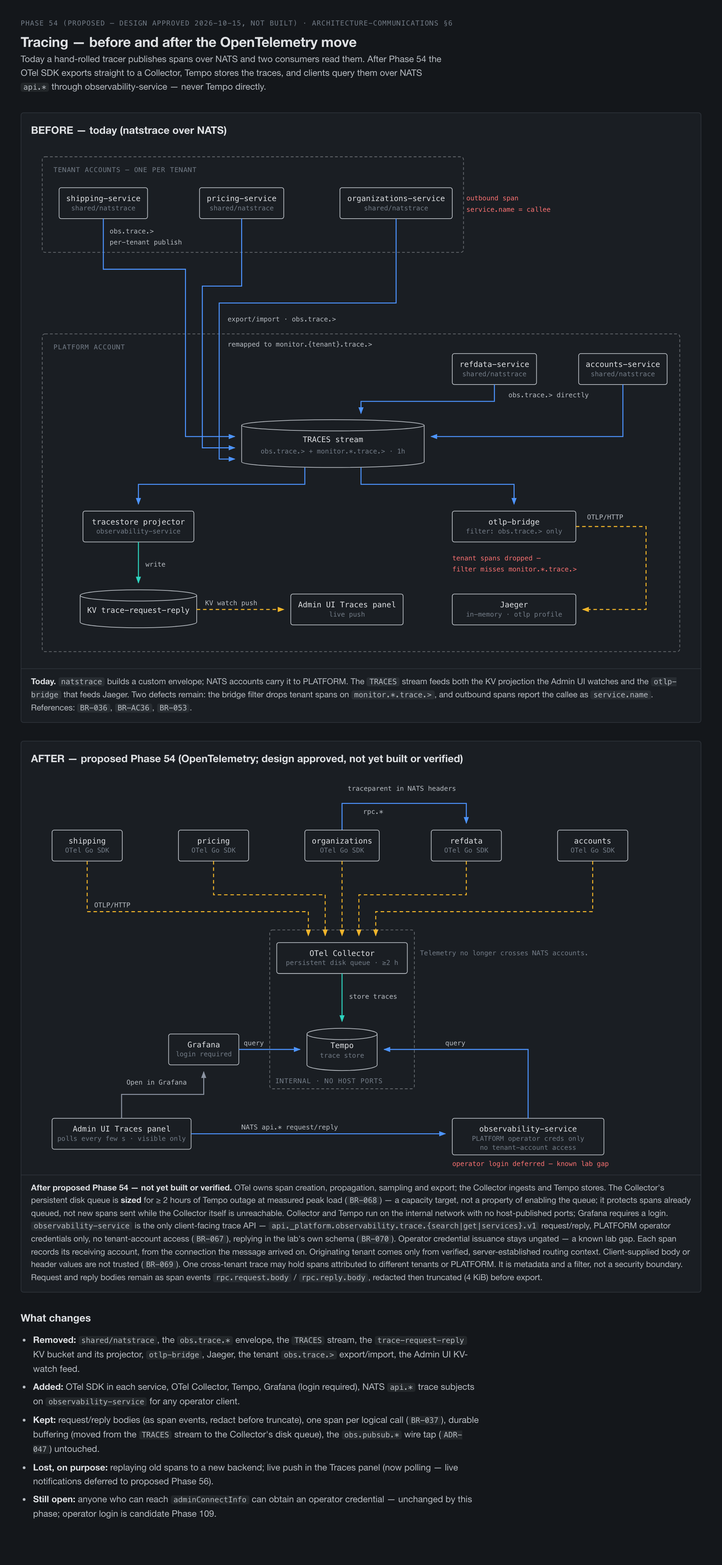
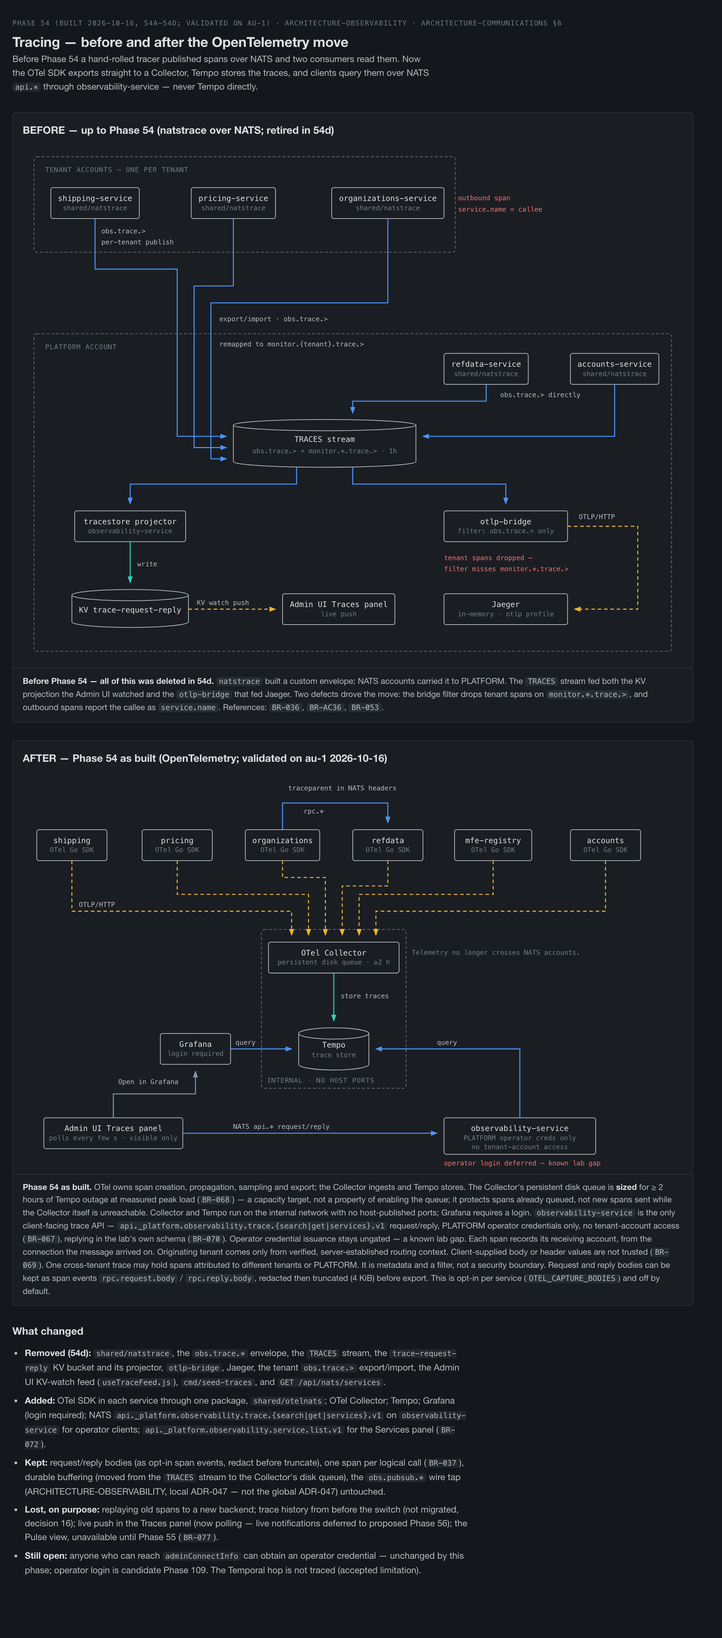
docs(phase54): reconcile docs, diagram and decision ledger
Bring the Phase 54 record up to date before the ADR pair is written.

- Plan: a decision ledger for all 17 decisions, with each one marked
  Built, Accepted limit, Deferred or Proposed. Also the remaining
  validation (za-1 not checked, full-queue delivery to Tempo not
  proved) and a separate Chronicle section of proposed transfer
  verdicts. Demo 03 keeps its own OTel module for now; the target is
  one shared module for Chronicle, picked by demo 03's three-way
  comparison.
- otel-migration-before-after: now the as-built figure (six services,
  past tense, opt-in bodies); PNG re-rendered, layout audit clean.
- ARCHITECTURE-COMMUNICATIONS: the Phase 28 deferred decision is marked
  resolved by Phase 54; both trace docs link the as-built figure.
- ADR-055: Phase 54 notes for the telemetry tier and the Jaeger ports.
- POC-Dictionaries: new Phase 54 findings note; Phase 28 note marked
  superseded.

diff --git a/demos/01-dictionary/diagrams/otel-migration-before-after.html b/demos/01-dictionary/diagrams/otel-migration-before-after.html
@@ -48,15 +48,15 @@ ul { margin: 0; padding-left: 18px; color: var(--muted); display: flex; flex-dir
 <body>
 <main class="wrap">
   <header class="head"><div class="head-txt">
-    <span class="eyebrow">Phase 54 (proposed — design approved 2026-10-15, not built) · ARCHITECTURE-COMMUNICATIONS §6</span>
+    <span class="eyebrow">Phase 54 (built 2026-10-16, 54a–54d; validated on au-1) · ARCHITECTURE-OBSERVABILITY · ARCHITECTURE-COMMUNICATIONS §6</span>
     <h1>Tracing — before and after the OpenTelemetry move</h1>
-    <p class="sub">Today a hand-rolled tracer publishes spans over NATS and two consumers read them. After Phase 54 the OTel SDK exports straight to a Collector, Tempo stores the traces, and clients query them over NATS <code>api.*</code> through observability-service — never Tempo directly.</p>
+    <p class="sub">Before Phase 54 a hand-rolled tracer published spans over NATS and two consumers read them. Now the OTel SDK exports straight to a Collector, Tempo stores the traces, and clients query them over NATS <code>api.*</code> through observability-service — never Tempo directly.</p>
   </div></header>
 
   <figure>
     <div class="fig-body">
-      <h2>BEFORE — today (natstrace over NATS)</h2>
-      <svg xmlns="http://www.w3.org/2000/svg" viewBox="0 0 940 740" role="img" aria-label="Today shipping, pricing and organizations use shared/natstrace in separate tenant accounts. Each publishes obs.trace.> and an export/import remaps those subjects to monitor.{tenant}.trace.> in PLATFORM. Refdata and accounts publish obs.trace.> directly in PLATFORM. The TRACES stream retains both subject families for one hour and feeds two consumers. The tracestore projector in observability-service writes the trace-request-reply KV bucket, whose watch pushes to the Admin UI. The otlp-bridge exports only obs.trace.> to in-memory Jaeger over OTLP/HTTP, dropping tenant spans because its filter misses monitor.*.trace.>. Another defect assigns the callee to outbound span service.name.">
+      <h2>BEFORE — up to Phase 54 (natstrace over NATS; retired in 54d)</h2>
+      <svg xmlns="http://www.w3.org/2000/svg" viewBox="0 0 940 740" role="img" aria-label="Before Phase 54, shipping, pricing and organizations use shared/natstrace in separate tenant accounts. Each publishes obs.trace.> and an export/import remaps those subjects to monitor.{tenant}.trace.> in PLATFORM. Refdata and accounts publish obs.trace.> directly in PLATFORM. The TRACES stream retains both subject families for one hour and feeds two consumers. The tracestore projector in observability-service writes the trace-request-reply KV bucket, whose watch pushes to the Admin UI. The otlp-bridge exports only obs.trace.> to in-memory Jaeger over OTLP/HTTP, dropping tenant spans because its filter misses monitor.*.trace.>. Another defect assigns the callee to outbound span service.name.">
         <defs>
           <marker id="a-sync" viewBox="0 0 8 8" refX="7" refY="4" markerWidth="7" markerHeight="7" orient="auto-start-reverse"><polygon points="0,1 8,4 0,7" fill="var(--sync)"/></marker>
           <marker id="a-store" viewBox="0 0 8 8" refX="7" refY="4" markerWidth="7" markerHeight="7" orient="auto-start-reverse"><polygon points="0,1 8,4 0,7" fill="var(--store)"/></marker>
@@ -132,44 +132,49 @@ ul { margin: 0; padding-left: 18px; color: var(--muted); display: flex; flex-dir
         <text class="lbl2" x="688" y="670" text-anchor="middle">in-memory · otlp profile</text>
       </svg>
     </div>
-    <figcaption><b>Today.</b> <code>natstrace</code> builds a custom envelope; NATS accounts carry it to PLATFORM. The <code>TRACES</code> stream feeds both the KV projection the Admin UI watches and the <code>otlp-bridge</code> that feeds Jaeger. Two defects remain: the bridge filter drops tenant spans on <code>monitor.*.trace.&gt;</code>, and outbound spans report the callee as <code>service.name</code>. References: <code>BR-036</code>, <code>BR-AC36</code>, <code>BR-053</code>.</figcaption>
+    <figcaption><b>Before Phase 54 — all of this was deleted in 54d.</b> <code>natstrace</code> built a custom envelope; NATS accounts carried it to PLATFORM. The <code>TRACES</code> stream fed both the KV projection the Admin UI watched and the <code>otlp-bridge</code> that fed Jaeger. Two defects drove the move: the bridge filter drops tenant spans on <code>monitor.*.trace.&gt;</code>, and outbound spans report the callee as <code>service.name</code>. References: <code>BR-036</code>, <code>BR-AC36</code>, <code>BR-053</code>.</figcaption>
   </figure>
 
   <figure>
     <div class="fig-body">
-      <h2>AFTER — proposed Phase 54 (OpenTelemetry; design approved, not yet built or verified)</h2>
-      <svg xmlns="http://www.w3.org/2000/svg" viewBox="0 0 940 566" role="img" aria-label="After proposed Phase 54, not yet built: shipping, pricing, organizations, refdata and accounts each use the OTel Go SDK. An organizations-to-refdata RPC propagates traceparent in NATS headers. All five services export asynchronously over OTLP/HTTP directly to the OTel Collector, which holds a persistent disk queue sized for at least two hours of Tempo outage and writes Tempo. The Collector and Tempo run on the internal network with no host-published ports. Telemetry no longer crosses NATS accounts. Grafana, which requires a login, queries Tempo. The Admin UI polls observability-service over NATS api request/reply every few seconds while visible; observability-service is the only client-facing trace API, for PLATFORM operator credentials only with no tenant-account access, and it queries Tempo. Operator login is deferred, a known lab gap. The Admin UI also links to Grafana.">
+      <h2>AFTER — Phase 54 as built (OpenTelemetry; validated on au-1 2026-10-16)</h2>
+      <svg xmlns="http://www.w3.org/2000/svg" viewBox="0 0 940 566" role="img" aria-label="Phase 54 as built: shipping, pricing, organizations, refdata, mfe-registry and accounts each use the OTel Go SDK through shared/otelnats. An organizations-to-refdata RPC propagates traceparent in NATS headers. All six services export asynchronously over OTLP/HTTP directly to the OTel Collector, which holds a persistent disk queue sized for at least two hours of Tempo outage and writes Tempo. The Collector and Tempo run on the internal network with no host-published ports. Telemetry no longer crosses NATS accounts. Grafana, which requires a login, queries Tempo. The Admin UI polls observability-service over NATS api request/reply every few seconds while visible; observability-service is the only client-facing trace API, for PLATFORM operator credentials only with no tenant-account access, and it queries Tempo. Operator login is deferred, a known lab gap. The Admin UI also links to Grafana.">
         <defs>
           <marker id="b-sync" viewBox="0 0 8 8" refX="7" refY="4" markerWidth="7" markerHeight="7" orient="auto-start-reverse"><polygon points="0,1 8,4 0,7" fill="var(--sync)"/></marker>
           <marker id="b-store" viewBox="0 0 8 8" refX="7" refY="4" markerWidth="7" markerHeight="7" orient="auto-start-reverse"><polygon points="0,1 8,4 0,7" fill="var(--store)"/></marker>
           <marker id="b-evtl" viewBox="0 0 8 8" refX="7" refY="4" markerWidth="7" markerHeight="7" orient="auto-start-reverse"><polygon points="0,1 8,4 0,7" fill="var(--evtl)"/></marker>
           <marker id="b-hop" viewBox="0 0 8 8" refX="7" refY="4" markerWidth="7" markerHeight="7" orient="auto-start-reverse"><polygon points="0,1 8,4 0,7" fill="var(--hop)"/></marker>
         </defs>
-        <!-- Five exports have distinct lanes and ordered Collector ports, 24px apart. -->
-        <path class="flow" d="M443 80 V42 H620 V70" marker-end="url(#b-sync)"/>
-        <text class="edge" x="451" y="24">traceparent in NATS headers</text>
-        <text class="edge" x="473" y="57">rpc.*</text>
-        <rect class="n" x="30" y="80" width="100" height="44" rx="3"/>
-        <text class="lbl" x="80" y="99" text-anchor="middle">shipping</text>
-        <text class="lbl2" x="80" y="112" text-anchor="middle">OTel Go SDK</text>
-        <rect class="n" x="210" y="80" width="100" height="44" rx="3"/>
-        <text class="lbl" x="260" y="99" text-anchor="middle">pricing</text>
-        <text class="lbl2" x="260" y="112" text-anchor="middle">OTel Go SDK</text>
-        <rect class="n" x="390" y="80" width="106" height="44" rx="3"/>
-        <text class="lbl" x="443" y="99" text-anchor="middle">organizations</text>
-        <text class="lbl2" x="443" y="112" text-anchor="middle">OTel Go SDK</text>
-        <rect class="n" x="570" y="80" width="100" height="44" rx="3"/>
-        <text class="lbl" x="620" y="99" text-anchor="middle">refdata</text>
-        <text class="lbl2" x="620" y="112" text-anchor="middle">OTel Go SDK</text>
-        <rect class="n" x="750" y="80" width="100" height="44" rx="3"/>
-        <text class="lbl" x="800" y="99" text-anchor="middle">accounts</text>
-        <text class="lbl2" x="800" y="112" text-anchor="middle">OTel Go SDK</text>
-        <path class="rep" d="M80 124 V196 H395 V230" marker-end="url(#b-evtl)"/>
-        <path class="rep" d="M260 124 V172 H419 V230" marker-end="url(#b-evtl)"/>
-        <path class="rep" d="M443 124 V230" marker-end="url(#b-evtl)"/>
-        <path class="rep" d="M620 124 V172 H467 V230" marker-end="url(#b-evtl)"/>
-        <path class="rep" d="M800 124 V196 H491 V230" marker-end="url(#b-evtl)"/>
-        <text class="edge" x="90" y="190">OTLP/HTTP</text>
+        <!-- Six exports have distinct lanes (y=148/160/172/196) and ordered
+             Collector ports 383..503, 24px apart. No two lanes overlap. -->
+        <path class="flow" d="M370 80 V42 H520 V70" marker-end="url(#b-sync)"/>
+        <text class="edge" x="378" y="24">traceparent in NATS headers</text>
+        <text class="edge" x="400" y="57">rpc.*</text>
+        <rect class="n" x="20" y="80" width="100" height="44" rx="3"/>
+        <text class="lbl" x="70" y="99" text-anchor="middle">shipping</text>
+        <text class="lbl2" x="70" y="112" text-anchor="middle">OTel Go SDK</text>
+        <rect class="n" x="170" y="80" width="100" height="44" rx="3"/>
+        <text class="lbl" x="220" y="99" text-anchor="middle">pricing</text>
+        <text class="lbl2" x="220" y="112" text-anchor="middle">OTel Go SDK</text>
+        <rect class="n" x="317" y="80" width="106" height="44" rx="3"/>
+        <text class="lbl" x="370" y="99" text-anchor="middle">organizations</text>
+        <text class="lbl2" x="370" y="112" text-anchor="middle">OTel Go SDK</text>
+        <rect class="n" x="470" y="80" width="100" height="44" rx="3"/>
+        <text class="lbl" x="520" y="99" text-anchor="middle">refdata</text>
+        <text class="lbl2" x="520" y="112" text-anchor="middle">OTel Go SDK</text>
+        <rect class="n" x="615" y="80" width="110" height="44" rx="3"/>
+        <text class="lbl" x="670" y="99" text-anchor="middle">mfe-registry</text>
+        <text class="lbl2" x="670" y="112" text-anchor="middle">OTel Go SDK</text>
+        <rect class="n" x="780" y="80" width="100" height="44" rx="3"/>
+        <text class="lbl" x="830" y="99" text-anchor="middle">accounts</text>
+        <text class="lbl2" x="830" y="112" text-anchor="middle">OTel Go SDK</text>
+        <path class="rep" d="M70 124 V196 H383 V230" marker-end="url(#b-evtl)"/>
+        <path class="rep" d="M220 124 V172 H407 V230" marker-end="url(#b-evtl)"/>
+        <path class="rep" d="M370 124 V148 H431 V230" marker-end="url(#b-evtl)"/>
+        <path class="rep" d="M520 124 V160 H455 V230" marker-end="url(#b-evtl)"/>
+        <path class="rep" d="M670 124 V172 H479 V230" marker-end="url(#b-evtl)"/>
+        <path class="rep" d="M830 124 V196 H503 V230" marker-end="url(#b-evtl)"/>
+        <text class="edge" x="80" y="190">OTLP/HTTP</text>
         <rect class="n" x="350" y="240" width="186" height="44" rx="3"/>
         <text class="lbl" x="443" y="259" text-anchor="middle">OTel Collector</text>
         <text class="lbl2" x="443" y="272" text-anchor="middle">persistent disk queue · ≥2 h</text>
@@ -203,17 +208,17 @@ ul { margin: 0; padding-left: 18px; color: var(--muted); display: flex; flex-dir
         <text class="edge" x="136" y="442">Open in Grafana</text>
       </svg>
     </div>
-    <figcaption><b>After proposed Phase 54 — not yet built or verified.</b> OTel owns span creation, propagation, sampling and export; the Collector ingests and Tempo stores. The Collector's persistent disk queue is <b>sized</b> for ≥ 2 hours of Tempo outage at measured peak load (<code>BR-068</code>) — a capacity target, not a property of enabling the queue; it protects spans already queued, not new spans sent while the Collector itself is unreachable. Collector and Tempo run on the internal network with no host-published ports; Grafana requires a login. <code>observability-service</code> is the only client-facing trace API — <code>api._platform.observability.trace.{search|get|services}.v1</code> request/reply, PLATFORM operator credentials only, no tenant-account access (<code>BR-067</code>), replying in the lab's own schema (<code>BR-070</code>). Operator credential issuance stays ungated — a known lab gap. Each span records its receiving account, from the connection the message arrived on. Originating tenant comes only from verified, server-established routing context. Client-supplied body or header values are not trusted (<code>BR-069</code>). One cross-tenant trace may hold spans attributed to different tenants or PLATFORM. It is metadata and a filter, not a security boundary. Request and reply bodies remain as span events <code>rpc.request.body</code> / <code>rpc.reply.body</code>, redacted then truncated (4 KiB) before export.</figcaption>
+    <figcaption><b>Phase 54 as built.</b> OTel owns span creation, propagation, sampling and export; the Collector ingests and Tempo stores. The Collector's persistent disk queue is <b>sized</b> for ≥ 2 hours of Tempo outage at measured peak load (<code>BR-068</code>) — a capacity target, not a property of enabling the queue; it protects spans already queued, not new spans sent while the Collector itself is unreachable. Collector and Tempo run on the internal network with no host-published ports; Grafana requires a login. <code>observability-service</code> is the only client-facing trace API — <code>api._platform.observability.trace.{search|get|services}.v1</code> request/reply, PLATFORM operator credentials only, no tenant-account access (<code>BR-067</code>), replying in the lab's own schema (<code>BR-070</code>). Operator credential issuance stays ungated — a known lab gap. Each span records its receiving account, from the connection the message arrived on. Originating tenant comes only from verified, server-established routing context. Client-supplied body or header values are not trusted (<code>BR-069</code>). One cross-tenant trace may hold spans attributed to different tenants or PLATFORM. It is metadata and a filter, not a security boundary. Request and reply bodies can be kept as span events <code>rpc.request.body</code> / <code>rpc.reply.body</code>, redacted then truncated (4 KiB) before export. This is opt-in per service (<code>OTEL_CAPTURE_BODIES</code>) and off by default.</figcaption>
   </figure>
 
   <section class="sec">
-    <h2>What changes</h2>
+    <h2>What changed</h2>
     <ul>
-      <li><b>Removed:</b> <code>shared/natstrace</code>, the <code>obs.trace.*</code> envelope, the <code>TRACES</code> stream, the <code>trace-request-reply</code> KV bucket and its projector, <code>otlp-bridge</code>, Jaeger, the tenant <code>obs.trace.&gt;</code> export/import, the Admin UI KV-watch feed.</li>
-      <li><b>Added:</b> OTel SDK in each service, OTel Collector, Tempo, Grafana (login required), NATS <code>api.*</code> trace subjects on <code>observability-service</code> for any operator client.</li>
-      <li><b>Kept:</b> request/reply bodies (as span events, redact before truncate), one span per logical call (<code>BR-037</code>), durable buffering (moved from the <code>TRACES</code> stream to the Collector's disk queue), the <code>obs.pubsub.*</code> wire tap (<code>ADR-047</code>) untouched.</li>
-      <li><b>Lost, on purpose:</b> replaying old spans to a new backend; live push in the Traces panel (now polling — live notifications deferred to proposed Phase 56).</li>
-      <li><b>Still open:</b> anyone who can reach <code>adminConnectInfo</code> can obtain an operator credential — unchanged by this phase; operator login is candidate Phase 109.</li>
+      <li><b>Removed (54d):</b> <code>shared/natstrace</code>, the <code>obs.trace.*</code> envelope, the <code>TRACES</code> stream, the <code>trace-request-reply</code> KV bucket and its projector, <code>otlp-bridge</code>, Jaeger, the tenant <code>obs.trace.&gt;</code> export/import, the Admin UI KV-watch feed (<code>useTraceFeed.js</code>), <code>cmd/seed-traces</code>, and <code>GET /api/nats/services</code>.</li>
+      <li><b>Added:</b> OTel SDK in each service through one package, <code>shared/otelnats</code>; OTel Collector; Tempo; Grafana (login required); NATS <code>api._platform.observability.trace.{search|get|services}.v1</code> on <code>observability-service</code> for operator clients; <code>api._platform.observability.service.list.v1</code> for the Services panel (<code>BR-072</code>).</li>
+      <li><b>Kept:</b> request/reply bodies (as opt-in span events, redact before truncate), one span per logical call (<code>BR-037</code>), durable buffering (moved from the <code>TRACES</code> stream to the Collector's disk queue), the <code>obs.pubsub.*</code> wire tap (ARCHITECTURE-OBSERVABILITY, local ADR-047 — not the global ADR-047) untouched.</li>
+      <li><b>Lost, on purpose:</b> replaying old spans to a new backend; trace history from before the switch (not migrated, decision 16); live push in the Traces panel (now polling — live notifications deferred to proposed Phase 56); the Pulse view, unavailable until Phase 55 (<code>BR-077</code>).</li>
+      <li><b>Still open:</b> anyone who can reach <code>adminConnectInfo</code> can obtain an operator credential — unchanged by this phase; operator login is candidate Phase 109. The Temporal hop is not traced (accepted limitation).</li>
     </ul>
   </section>
 </main>

diff --git a/.claude/plans/Main-POC-Plan.md b/.claude/plans/Main-POC-Plan.md
@@ -1208,7 +1208,7 @@ rationale, the design decisions, or the verification log).
 ---
 
 
-### Phase 54 — DESIGN APPROVED 2026-10-15, REVISED same day after a Claude/Codex review; decisions 15 (c) and 16 (a) chosen by the user 2026-10-15 (business rules BR-064–BR-071 written into BUSINESS_RULES-SHIPPING.md 2026-10-15, specs red; 54a–54c BUILT, 54c validated on au-1 2026-10-16, decision 16 switch MADE 2026-10-16 on au-1; 54d next) — Replace `natstrace` with OpenTelemetry: SDK → Collector → Tempo, Clients Query Through `observability-service`
+### Phase 54 — DESIGN APPROVED 2026-10-15, REVISED same day after a Claude/Codex review; decisions 15 (c) and 16 (a) chosen by the user 2026-10-15 (business rules BR-064–BR-071 written into BUSINESS_RULES-SHIPPING.md 2026-10-15, specs red; 54a–54c BUILT, 54c validated on au-1 2026-10-16, decision 16 switch MADE 2026-10-16 on au-1; 54d code BUILT 2026-10-16 (04d73e27), au-1 trace stores removed 2026-10-17, za-1 not checked; docs close-out OPEN: ADR pair, as-built diagram, LB-V3-L3-10) — Replace `natstrace` with OpenTelemetry: SDK → Collector → Tempo, Clients Query Through `observability-service`
 
 > Reverses the deferred decision recorded in ARCHITECTURE-COMMUNICATIONS.md
 > § 6 ("Revisit the real SDK if this POC graduates"). Agreed direction
@@ -1476,6 +1476,15 @@ Neither is fixed in place: this phase removes the code that has them.
     - **No promise that service code stays unchanged.** A helper cannot
       repair a dropped context or choose a span's boundaries. Decision 6's
       adapter context audit still runs, service by service.
+    - **Demo 03 builds its own module for now** (user, 2026-10-17).
+      `demos/03-multi-cluster-and-accounts/OTEL-SIGNALS-PLAN.md` proposes a
+      separate module, because demo 03 is sealed and `otelnats` carries
+      demo 01 rules (tenant `Trust`, the `api.*` root policy,
+      `obs.pubsub.*`). That is accepted as a temporary split, not a second
+      direction. **The target is one shared module for Chronicle.** Demo
+      03's three-way comparison (`shared/otelnats`, demo 03's module,
+      Chronicle's `services/lib/logger`) picks which code that module
+      starts from. Until then, neither lab module is the Chronicle module.
 15. **Pulse waits for Phase 55's metrics** (chosen by the user
     2026-10-15, option (c)). Today `PulsePanel.vue` counts the whole live
     trace set from `useTraceFeed.js`. Decision 9's search has a result
@@ -1563,6 +1572,70 @@ Neither is fixed in place: this phase removes the code that has them.
       topology, credentials and discovery timing supplied by deployment
       configuration. AWS deployment and the Chronicle merge are later
       work, not Phase 54 completion claims.
+
+#### Decision ledger (reconciled 2026-10-17)
+
+One line per decision, so the ADR pair can quote it. Four kinds of entry,
+kept apart: **Built** (in the code, checked on au-1), **Accepted limit**
+(a known gap the user chose to keep), **Deferred** (decided to decide
+later, with a place named), **Proposed** (said in chat, never confirmed by
+the user). Remaining validation is listed after the table.
+
+| # | Decision | Status | Evidence |
+|---|---|---|---|
+| 1 | OTel Go SDK in every traced service | Built | 54a–54b; six services export (shipping, refdata, mfe-registry, pricing, organizations, accounts) |
+| 2 | SDK → Collector → Tempo; only Grafana on the host | Built | `cell/compose.telemetry.yaml`; ADR-055 Phase 54 note |
+| 2 | Tempo monolithic on local disk | Built, lab only | The V3 trace store is **Deferred** to a V3 decision (alternative: Jaeger v2 + OpenSearch) |
+| 3 | Telemetry leaves the NATS account model | Built | 54d removed the tenant `obs.trace.>` export/import |
+| 4 | Operators read all tenants; tenants read nothing | Built | BR-067, BR-069 |
+| 4 | Ungated `adminConnectInfo` | Accepted limit | Operator login is candidate Phase 109 |
+| 5 | Span kinds; new root at the `api.*` edge | Built | BR-071, `otelnats.go` sampler |
+| 6 | Context through the adapters, domain free of `otel` | Built | 54b context audits, per service |
+| 6 | Temporal hop not traced | Accepted limit | BR-064 |
+| 7 | Bodies as span events, opt-in | Built | `OTEL_CAPTURE_BODIES`, off by default |
+| 8 | Traces panel polls | Built | 54c; push hint is **Deferred** to Phase 56 |
+| 9 | Trace queries are NATS `api.*` only, lab schema | Built | BR-076, `traceGateway.js` |
+| 10 | Export never blocks a business call | Built | Measured in 54a (stopped and hung Collector) |
+| 11 | Disk queue in the Collector; replay given up | Built | Durability 54a, capacity and overflow 54b-7b (BR-068) |
+| 12 | 100% sampling in the lab | Built | BR-071 |
+| 13 | Retire `natstrace` and the NATS trace path | Built | 54d (`04d73e27`); au-1 stores removed by hand 2026-10-17 |
+| 14 | One thin shared package, `shared/otelnats` | Built | Demo 03 keeps its own module for now; one Chronicle module is the target (decision 14) |
+| 15 | Pulse unavailable until Phase 55 | Built | BR-077 |
+| 16 | One cutover; history not migrated | Built | Switch made on au-1 2026-10-16 |
+| 17 | Micro discovery over `service.list.v1` | Built | BR-072; `GET /api/nats/services` removed in 54d |
+| — | Lab Tempo setup: no second dev config file, no grouping spans by trace in the Collector | Proposed | Chat only; the reasons were not written down |
+| — | The trace query API stays in the lab; Chronicle gets none until an app needs one | Proposed | Chat only |
+| — | Liveness vs readiness for PLATFORM services (`natsready`) | Proposed | Chat only; decision 17 records reuse where a check exists, nothing more |
+| — | Alloy or the OTel Collector as the agent | Proposed, open | Suggested for Phase 55. Phase 55 still assumes the Collector; demo 03's plan chose Alloy; Chronicle runs Alloy |
+
+**Remaining validation (not done):**
+
+- **za-1 is not checked.** Its Grafana port 3000 is taken by the Chronicle
+  `lgtm` container. 54c, the switch and 54d were checked on au-1 only.
+- **A full queue does not reach Tempo intact.** 54b-7b: Tempo's default
+  limits dropped most spans on drain (`live_traces_exceeded`,
+  `rate_limited`). The defaults stay; delivery of a full queue is not
+  proved.
+- **No two-hour elapsed outage was run.** Capacity was proved by volume
+  only. V3 capacity is not measured.
+- **Open from 54b:** one process with two same-name micro services lists
+  as two instances; `type.list` throughput looks serial (not proved).
+- **Docs:** the ADR pair is held; LB-V3-L3-10 is PLANNED; no L4 exists.
+
+**Chronicle — not proved by Phase 54.** Phase 54 proves the design in the
+lab only. The transfer verdicts below came from one code comparison
+(2026-10-16) and are **Proposed**. None is a Phase 54 claim.
+
+- *Move as is:* the span helpers and the NATS header carrier (Chronicle
+  never calls `logger.Inject`, so its traces do not join); the `api.*`
+  edge rule (BR-071); the standard span kinds and attributes; the
+  joined-trace and outage tests.
+- *Move with changes:* the disk queue (Chronicle's Alloy has an in-memory
+  queue; check Alloy's disk queue, then size it for Chronicle's load); the
+  tenant rule (never read the tenant from a header; Chronicle sets the
+  tenant per deployment); body capture (keep it off by default).
+- *Do not move:* the NATS trace query gateway (Grafana Cloud already reads
+  traces); the lab's no-global-provider design.
 
 #### Slicing
 
@@ -2229,6 +2302,11 @@ well as the three trace subjects. BR-041's requester identity
 stays observability-only, recorded as a span attribute. ARCHITECTURE-COMMUNICATIONS.md § 6 and
 ARCHITECTURE-OBSERVABILITY.md are revised with it (including an "after"
 edition of `observability-message-path`), and an ADR records the reversal.
+**Status 2026-10-17:** both docs carry 54d notes and link the as-built
+figure `otel-migration-before-after` (it replaces the planned "after"
+edition; `observability-message-path` stays as history). ADR-055 has a
+Phase 54 note. The ADR is held until this reconcile is reviewed; the
+proposal is a V3 + lab pair (058 + 059). LB-V3-L3-10 is still PLANNED.
 
 ---
 

diff --git a/obsidian/POC-Dictionaries/7. Findings - OpenTelemetry Tracing (Phase 54).md b/obsidian/POC-Dictionaries/7. Findings - OpenTelemetry Tracing (Phase 54).md
@@ -1,0 +1,35 @@
+Findings write-up for Phase 54 — Replace `natstrace` with OpenTelemetry. Implementation detail lives in the repo (`ARCHITECTURE-COMMUNICATIONS.md` § 6, `ARCHITECTURE-OBSERVABILITY.md`, `BUSINESS_RULES-SHIPPING.md` BR-064–BR-077). The decision ledger, with the status of every decision, is in `.claude/plans/Main-POC-Plan.md` under Phase 54. This note is the stakeholder-facing *why*, and what the lab learned.
+
+It follows [[4. Findings - Distributed Tracing (Phase 28)]]. Phase 28 built the lab's own tracer over NATS. Phase 54 removed it.
+
+## Summary
+
+Phase 28 sent spans over NATS: a hand-written envelope (`obs.trace.*`), a JetStream stream, a KV projection and a small bridge to Jaeger. Phase 28 also wrote down a deferred decision: use the real OpenTelemetry SDK "if this POC graduates". Phase 54 took that decision up and reversed the Phase 28 design.
+
+Now each service uses the OpenTelemetry Go SDK through one thin shared package (`shared/otelnats`). Spans go over OTLP/HTTP to an OTel Collector with a disk queue, and Tempo stores them. Operators read traces through `observability-service` over NATS request/reply, or in Grafana. Tenants read nothing. Built 2026-10-16, checked on the au-1 cell.
+
+## Why the lab stopped carrying spans on NATS
+
+- **Two defects, found 2026-10-14.** Tenant spans never reached Jaeger, because the bridge read only `obs.trace.>` and tenant spans arrive as `monitor.*.trace.>`. Outbound spans carried the callee's service name, so a caller's span showed under the wrong service. Both were in code the lab owned and had to maintain.
+- **Fixing them in place keeps a private tracer alive.** The standard SDK already does span creation, propagation, sampling and export. The lab's own value was small: a NATS header carrier, the tenant rule, body capture and the browser-edge rule. Phase 54 keeps only that, in one package.
+- **Telemetry does not need the account model.** Phase 28 moved spans across NATS accounts with exports and imports. That made telemetry depend on tenant provisioning. Now no span crosses an account on NATS. Tenant is a span attribute, set only by the receiving service from trusted context. It is metadata and a filter, not a security boundary.
+
+## What the lab learned
+
+- **Durability moved, and replay was given up.** JetStream kept spans for an hour and could replay them. The Collector's disk queue now protects spans while Tempo is down. It survived a restart and a hard kill (54a). It held a peak-volume load and counted its loss when full (54b-7b). Replay to a new backend is no longer possible. No requirement asked for it.
+- **Configuration is not evidence.** A full queue drained in 332 s, but Tempo's default limits dropped most of those spans. The disk queue works; delivery of a full queue to Tempo is not proved.
+- **A browser must not control tracing.** A browser can send any `traceparent`, including "do not sample". Every `api.*` call now starts a new trace, and the browser's trace ID is kept only as a link (BR-071).
+- **The store is swappable because the query contract is the lab's own.** Clients never call Tempo. `observability-service` answers with a versioned lab schema, so a change from Tempo to Jaeger v2 is one adapter.
+- **What was lost, on purpose:** trace history from before the switch, live push in the Traces panel (it polls now), and the Pulse view until Phase 55. The Temporal hop is still not traced.
+
+## What this does not prove
+
+- **Production.** Tempo runs in monolithic mode on local disk. The V3 trace store is a separate V3 decision.
+- **Chronicle.** The lab's design is not yet in Chronicle, the V3 codebase. A code comparison on 2026-10-16 proposed what could move. Those verdicts are proposals, recorded in the plan's ledger, not results of this phase.
+- **The second cell.** za-1 was not checked.
+
+## Stakeholder summary
+
+- The lab's own tracer had real defects, and fixing them would have meant maintaining a tracer. The standard SDK replaced it, with one thin lab package for the parts that are specific to NATS and tenants.
+- Spans no longer travel through the NATS account model. Durability now sits in the Collector's disk queue.
+- The lab proved the shape. It did not prove production capacity, a full-queue delivery to Tempo, or the move to Chronicle.

diff --git a/obsidian/V3-Platform/Architecture/Dictionary-POC/ARCHITECTURE-COMMUNICATIONS.md b/obsidian/V3-Platform/Architecture/Dictionary-POC/ARCHITECTURE-COMMUNICATIONS.md
@@ -716,7 +716,9 @@ a JetStream concern — it's a separate, best-effort side-channel off the
 > notes below is live. The `obs.trace.*` path, the
 > `monitor.{tenant}.trace.>` remap (BR-AC36), `TRACES`,
 > `trace-request-reply`, BR-036's trace half, BR-051 and BR-053 are retired.
-> The figure is not redrawn.
+> This figure is not redrawn. The as-built trace path is
+> [otel-migration-before-after](images/otel-migration-before-after.png)
+> (source: `demos/01-dictionary/diagrams/otel-migration-before-after.html`).
 
 Both supportive subject families — `obs.trace.*` and `obs.pubsub.*` — travel
 the same five hops from a tenant service to an Admin UI panel, and the
@@ -1059,6 +1061,17 @@ shows otherwise.
 > auto-instrumentation is the genuine loss, and because the wire format is
 > already OTLP-shaped, adopting it later is additive rather than a rewrite.
 > Recorded as an explicit deferred decision, not a silent one.
+>
+> **Resolved (Phase 54, 2026-10-16).** This deferral was taken up and
+> reversed. Phase 54 decision 1 adopts the real OpenTelemetry SDK in every
+> traced service (`shared/otelnats`), exporting OTLP/HTTP to an OTel
+> Collector with a disk queue. The bridge had two defects (verified
+> 2026-10-14). Tenant spans never reached Jaeger, because the bridge read
+> only `obs.trace.>` and tenant spans land on `monitor.*.trace.>`. Outbound
+> spans carried the callee's service name, so a caller's client span showed
+> under the callee. Phase 54 removed the code instead of fixing it in place.
+> The bridge and Jaeger were deleted in 54d. As-built figure:
+> [otel-migration-before-after](images/otel-migration-before-after.png).
 >
 > **Implemented (Phase 28g).** `backend/otlp-bridge/` landed as designed
 > above — a standalone `~230`-line module (not hexagonal; a translation

diff --git a/obsidian/POC-Dictionaries/4. Findings - Distributed Tracing (Phase 28).md b/obsidian/POC-Dictionaries/4. Findings - Distributed Tracing (Phase 28).md
@@ -1,5 +1,7 @@
 Findings write-up for Phase 28 — Distributed Tracing for Inter-Service Comms. Implementation detail lives in the repo (`ARCHITECTURE-COMMUNICATIONS.md` § 2.1, `ARCHITECTURE-ADMIN.md` § 4.5, `BUSINESS_RULES-SHIPPING.md` BR-036/BR-037); this note is the stakeholder-facing *why* — specifically the two questions the plan flagged as needing a findings note: correlation id vs. trace id, and why the trace store is KV-only, no Postgres tier.
 
+> **Superseded (Phase 54, 2026-10-16).** The `obs.trace.*` tracer, the `TRACES` stream and the `trace-request-reply` store described here are deleted. OpenTelemetry replaced them. See [[7. Findings - OpenTelemetry Tracing (Phase 54)]]. The correlation-id vs trace-id reasoning below still holds.
+
 > **Authorial note (2026-08-17, Phase 31).** This note originally argued "the trace store is Shape A" — a direct comparison to the shipping domain's own KV-as-read-model shape. Phase 31 retired that shape (along with event-sourced reconstruction) once the POC's three-way shape comparison was decided in favor of the Postgres-plus-cache shape — see `5. Findings - Shape B Consolidation (Phase 31).md`. The comparison below is rewritten to stand on its own reasoning rather than point at a pattern that no longer exists in the codebase; where useful it now cites that pattern as *historical precedent* (what the lab validated before retiring it), not as "the same shape this lab currently uses."
 
 ## Summary

diff --git a/obsidian/V3-Platform/Architecture/Dictionary-POC/ARCHITECTURE-OBSERVABILITY.md b/obsidian/V3-Platform/Architecture/Dictionary-POC/ARCHITECTURE-OBSERVABILITY.md
@@ -31,7 +31,9 @@ keeps only the ADR as a historical record.
 > The trace path (`obs.trace.>`, the `monitor.{tenant}.trace.>` remap,
 > `TRACES`, `trace-request-reply`) is retired. Spans now leave each service
 > over OTLP to the OTel Collector and Tempo. No span crosses an account on
-> NATS. The figure is not redrawn.
+> NATS. This figure is not redrawn. The as-built trace path is
+> [otel-migration-before-after](images/otel-migration-before-after.png)
+> (source: `demos/01-dictionary/diagrams/otel-migration-before-after.html`).
 
 ![Two parallel ingest paths: a tenant service publishes obs.trace.> and obs.pubsub.> inside its own NATS account; JWT stream exports carry both into the PLATFORM account, each with a per-tenant LocalSubject remap onto monitor.{tenant}.trace.> and monitor.{tenant}.pubsub.>; each lands on its own LimitsPolicy stream (TRACES 1h/64 MiB, PUBSUB 1h/32 MiB) that captures both the remapped tenant form and the bare obs.* form PLATFORM publishes itself, is read by one durable AckExplicit consumer, and is projected into a KV bucket — trace-request-reply merged by spanId with the tenant stored per span, pubsub-messages plain-Put, both bounded at 15 min / 8 MiB. Both buckets emit a best-effort notify subject that observability-service bridges to the Admin UI over WebSocket, alongside the REST snapshot each feed bootstraps from.](images/observability-message-path.png)
 

diff --git a/obsidian/V3-Platform/Architecture/ADR/lab/ADR-055-lab-platform-compose-split-cell-and-global.md b/obsidian/V3-Platform/Architecture/ADR/lab/ADR-055-lab-platform-compose-split-cell-and-global.md
@@ -57,6 +57,14 @@ no way to say any of that.
   `compose.dedicated.yaml` and the global control file are both deliberately
   left out of it.
 
+  > **Phase 54 (2026-10-16).** `jaeger` and `otlp-bridge` are deleted from
+  > `cell/compose.runtime.yaml` (54d). A fifth tier file,
+  > `cell/compose.telemetry.yaml`, holds `otel-collector`, `tempo`,
+  > `grafana` and `otel-volume-init`. It owns data (the Collector's disk
+  > queue, Tempo's traces, Grafana's state). `cell/compose.yaml` now
+  > includes three files: infra, runtime and telemetry. The decision of this
+  > ADR is unchanged.
+
 - **Projects = where it runs.** `-p lb-za-1` and `-p lb-au-1`. Both run the
   **same files**; only `--env-file` differs.
 
@@ -99,6 +107,10 @@ bands `CLAUDE.md` pins (`7100-7199` frontends, `7200-7299` backends), so za-1
 takes the low half of each band and au-1 the high half and neither leaves its
 band, and by **+100** for the conventional ports (NATS, Postgres, Temporal UI,
 Jaeger) which sit in no band.
+
+> **Phase 54 (2026-10-16).** The Jaeger ports are gone. Grafana is the only
+> telemetry port on the host, offset by **+50** (`3000` za-1, `3050` au-1),
+> per Phase 54 decision 2.
 
 The same variables substitute into the origin strings that carry a port —
 `REGISTRY_ALLOWED_ORIGINS`, `REGISTRY_FETCH_ORIGINS`, `ASSET_ALLOWED_ORIGIN`,
